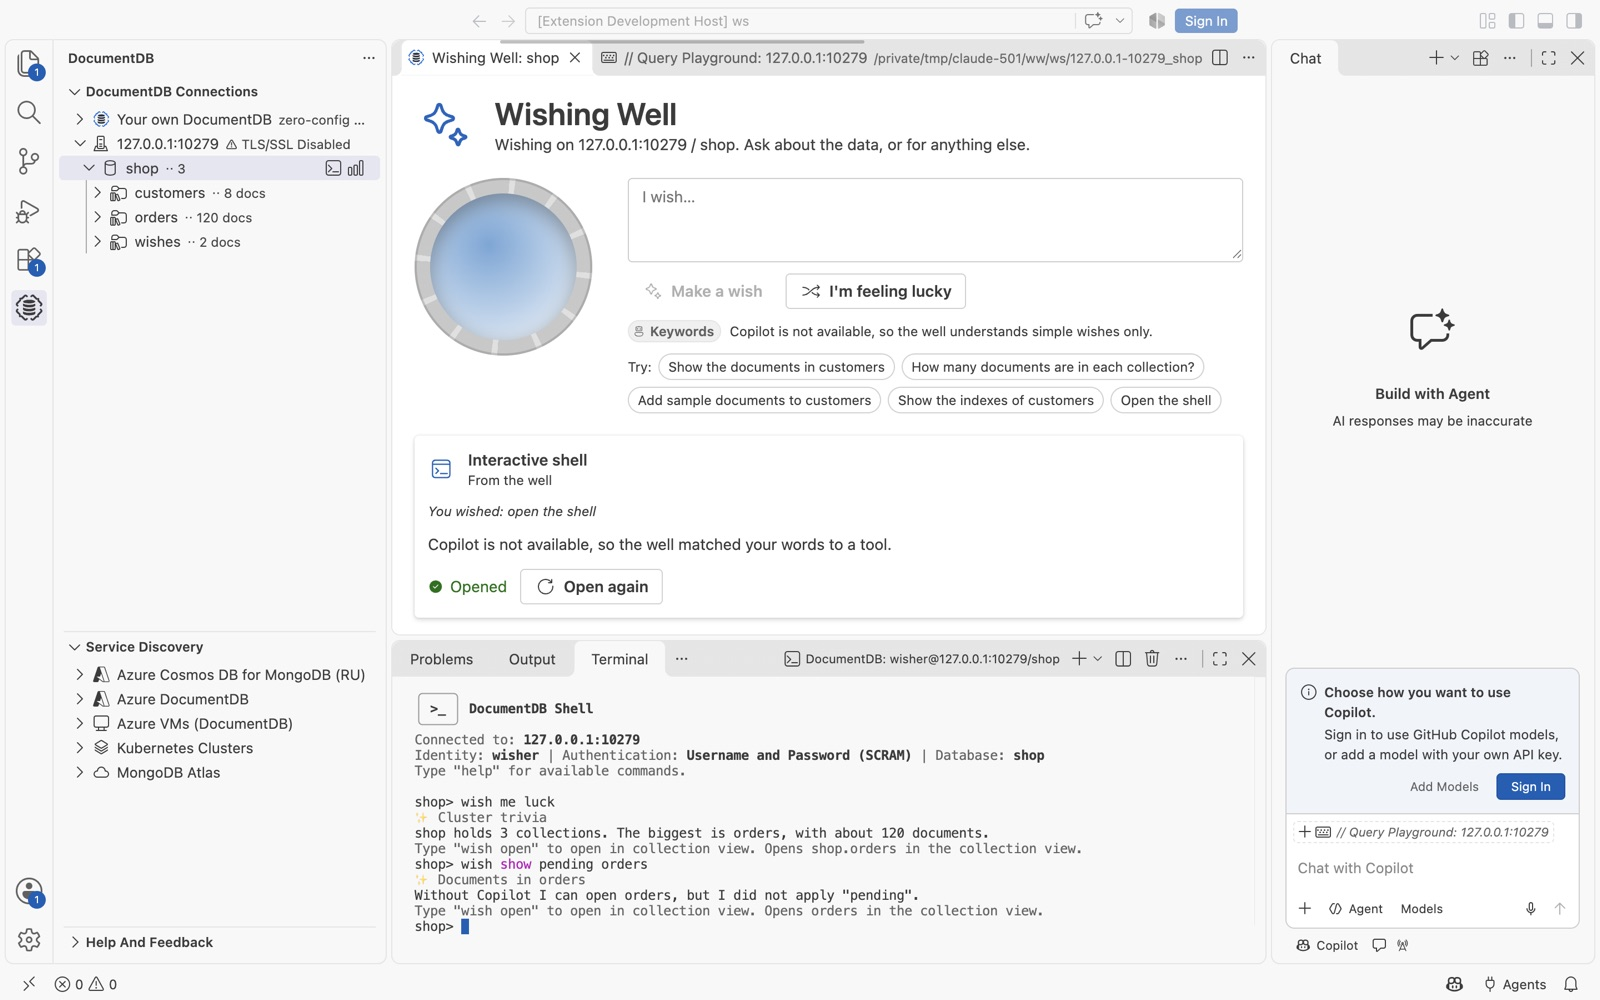
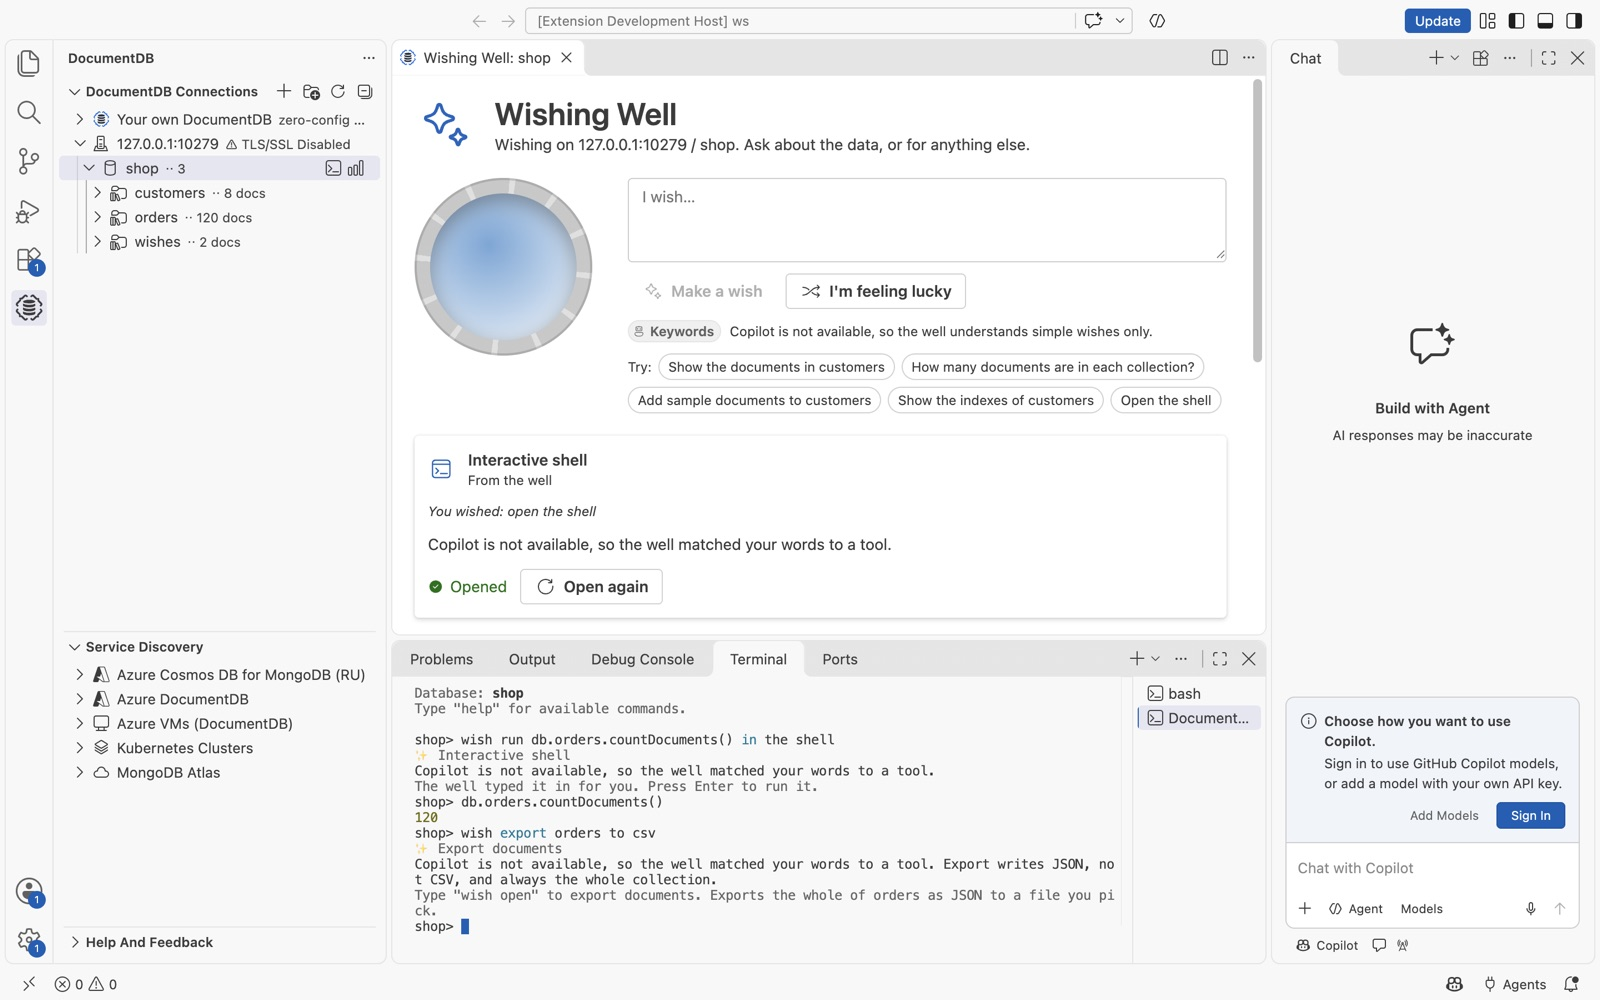
Add the Wishing Well review record and refresh its screenshots

diff --git a/docs/ai-and-plans/README.md b/docs/ai-and-plans/README.md
@@ -22,36 +22,37 @@ treat `status: historical` or `status: superseded` as current.
 
 ## Features
 
-| Feature                                                                   | What it covers                                                                                           | Status                                    |
-| ------------------------------------------------------------------------- | -------------------------------------------------------------------------------------------------------- | ----------------------------------------- |
-| [local-quickstart](./features/local-quickstart/README.md)                 | Run DocumentDB locally in one click: Docker provisioning, readiness, lifecycle                           | shipped 0.10.0                            |
-| [query-insights](./features/query-insights/README.md)                     | Query performance rating, static analysis, and streaming AI recommendations                              | shipped                                   |
-| [interactive-shell](./features/interactive-shell/README.md)               | The in-terminal REPL, its runtime, completions, and highlighting                                         | shipped                                   |
-| [query-playground](./features/query-playground/README.md)                 | `.documentdb` files, persistent worker evaluation, per-document connections                              | shipped                                   |
-| [completions-and-schema](./features/completions-and-schema/README.md)     | Operator registry, schema analyzer, and the shared completion layer                                      | shipped                                   |
-| [index-management](./features/index-management/README.md)                 | The Indexes tab, the create drawer, and the Collection View chrome redesign                              | shipped                                   |
-| [atlas-discovery](./features/atlas-discovery/README.md)                   | MongoDB Atlas discovery: Admin API auth, discovery tree, credentials                                     | shipped                                   |
-| [kubernetes-discovery](./features/kubernetes-discovery/README.md)         | Kubernetes service discovery and connect-time reachability providers                                     | shipped                                   |
-| [webview-ext-package](./features/webview-ext-package/README.md)           | `@microsoft/vscode-ext-webview`: the extracted webview transport package                                 | published preview                         |
-| [webview-fluentui-package](./features/webview-fluentui-package/README.md) | `@microsoft/vscode-ext-webview-fluentui`: Fluent theming and reusable components for webviews            | 1.1.1 prepared                            |
-| [connections-tree](./features/connections-tree/README.md)                 | The Connections view: node item counts, connection load performance                                      | shipped                                   |
-| [no-auth](./features/no-auth/README.md)                                   | Credential-free connections and connection-string TLS handling                                           | shipped                                   |
-| [managed-identities](./features/managed-identities/README.md)             | Explicit managed identity authentication from Azure VMs                                                  | PR #886                                   |
-| [copy-paste-collections](./features/copy-paste-collections/README.md)     | Collection copy/paste tasks, document streaming, conflict handling, and optional index copying           | active                                    |
-| [cluster-dashboard](./features/cluster-dashboard/README.md)               | Cluster-wide inventory and resilience facts                                                              | POC, unmerged                             |
-| [settings](./features/settings/README.md)                                 | Settings editor grouping, setting ID naming, and how a setting is renamed safely                         | active                                    |
-| [welcome](./features/welcome/README.md)                                   | Welcome walkthrough onboarding and quiet next-session deferral for upgraded installations                | active                                    |
-| [escaping](./features/escaping/README.md)                                 | Safe rendering of user/database content and least-privilege Markdown tooltips                            | active                                    |
-| [srv-dns-fallback](./features/srv-dns-fallback/README.md)                 | In-memory SRV fallback for `mongodb+srv://` when c-ares rejects compressed SRV replies (#993)            | implemented (manual checks pending)       |
-| [build-and-test-stack](./features/build-and-test-stack/README.md)         | Vite host and webview builds, Vitest, packaged checks, CI tiers, and modernization history               | active                                    |
-| [e2e-testing](./features/e2e-testing/README.md)                           | The planned installed-workbench and webview end-to-end test iteration                                    | planned                                   |
-| [data-grid](./features/data-grid/README.md)                               | The Collection View table and tree, including the planned SlickGrid replacement                          | planned                                   |
-| [survey](./features/survey/README.md)                                     | Survey refresh: simpler eligibility, broader activity coverage, cohort telemetry, and invitation surface | draft #992; enabled                       |
-| [docs-site](./features/docs-site/README.md)                               | The GitHub Pages documentation site: Just the Docs theme, OS dark mode, local preview                    | draft #420                                |
-| [pre-release-polish](./features/pre-release-polish/README.md)             | Cross-feature visual and documentation refinements prepared for the 1.0 release                          | active                                    |
-| [sovereign-clouds](./features/sovereign-clouds/README.md)                 | Entra sign-in in Azure Government and China: per-cloud token audience, Entra error classifier            | implemented; sovereign checks pending     |
-| [Diagnose connection](./features/connectivity-troubleshooter/README.md)   | Read-only connection diagnosis, a server summary and readable Markdown diagnostics (#100)                | implemented; handover blocked on operator |
-| [deep-links](./features/deep-links/README.md)                             | `vscode://` links: action routing, `/connect`, `/local`, `/connect/azure` for Azure portal links         | active; iteration 3 implemented           |
+| Feature                                                                   | What it covers                                                                                            | Status                                    |
+| ------------------------------------------------------------------------- | --------------------------------------------------------------------------------------------------------- | ----------------------------------------- |
+| [local-quickstart](./features/local-quickstart/README.md)                 | Run DocumentDB locally in one click: Docker provisioning, readiness, lifecycle                            | shipped 0.10.0                            |
+| [query-insights](./features/query-insights/README.md)                     | Query performance rating, static analysis, and streaming AI recommendations                               | shipped                                   |
+| [interactive-shell](./features/interactive-shell/README.md)               | The in-terminal REPL, its runtime, completions, and highlighting                                          | shipped                                   |
+| [query-playground](./features/query-playground/README.md)                 | `.documentdb` files, persistent worker evaluation, per-document connections                               | shipped                                   |
+| [completions-and-schema](./features/completions-and-schema/README.md)     | Operator registry, schema analyzer, and the shared completion layer                                       | shipped                                   |
+| [index-management](./features/index-management/README.md)                 | The Indexes tab, the create drawer, and the Collection View chrome redesign                               | shipped                                   |
+| [atlas-discovery](./features/atlas-discovery/README.md)                   | MongoDB Atlas discovery: Admin API auth, discovery tree, credentials                                      | shipped                                   |
+| [kubernetes-discovery](./features/kubernetes-discovery/README.md)         | Kubernetes service discovery and connect-time reachability providers                                      | shipped                                   |
+| [webview-ext-package](./features/webview-ext-package/README.md)           | `@microsoft/vscode-ext-webview`: the extracted webview transport package                                  | published preview                         |
+| [webview-fluentui-package](./features/webview-fluentui-package/README.md) | `@microsoft/vscode-ext-webview-fluentui`: Fluent theming and reusable components for webviews             | 1.1.1 prepared                            |
+| [connections-tree](./features/connections-tree/README.md)                 | The Connections view: node item counts, connection load performance                                       | shipped                                   |
+| [no-auth](./features/no-auth/README.md)                                   | Credential-free connections and connection-string TLS handling                                            | shipped                                   |
+| [managed-identities](./features/managed-identities/README.md)             | Explicit managed identity authentication from Azure VMs                                                   | PR #886                                   |
+| [copy-paste-collections](./features/copy-paste-collections/README.md)     | Collection copy/paste tasks, document streaming, conflict handling, and optional index copying            | active                                    |
+| [cluster-dashboard](./features/cluster-dashboard/README.md)               | Cluster-wide inventory and resilience facts                                                               | POC, unmerged                             |
+| [settings](./features/settings/README.md)                                 | Settings editor grouping, setting ID naming, and how a setting is renamed safely                          | active                                    |
+| [welcome](./features/welcome/README.md)                                   | Welcome walkthrough onboarding and quiet next-session deferral for upgraded installations                 | active                                    |
+| [escaping](./features/escaping/README.md)                                 | Safe rendering of user/database content and least-privilege Markdown tooltips                             | active                                    |
+| [srv-dns-fallback](./features/srv-dns-fallback/README.md)                 | In-memory SRV fallback for `mongodb+srv://` when c-ares rejects compressed SRV replies (#993)             | implemented (manual checks pending)       |
+| [build-and-test-stack](./features/build-and-test-stack/README.md)         | Vite host and webview builds, Vitest, packaged checks, CI tiers, and modernization history                | active                                    |
+| [e2e-testing](./features/e2e-testing/README.md)                           | The planned installed-workbench and webview end-to-end test iteration                                     | planned                                   |
+| [data-grid](./features/data-grid/README.md)                               | The Collection View table and tree, including the planned SlickGrid replacement                           | planned                                   |
+| [survey](./features/survey/README.md)                                     | Survey refresh: simpler eligibility, broader activity coverage, cohort telemetry, and invitation surface  | draft #992; enabled                       |
+| [docs-site](./features/docs-site/README.md)                               | The GitHub Pages documentation site: Just the Docs theme, OS dark mode, local preview                     | draft #420                                |
+| [wishing-well](./features/wishing-well/README.md)                         | A proof of concept: one free-text box that reaches the extension's own tools, also open to outside agents | POC, PR #1122                             |
+| [pre-release-polish](./features/pre-release-polish/README.md)             | Cross-feature visual and documentation refinements prepared for the 1.0 release                           | active                                    |
+| [sovereign-clouds](./features/sovereign-clouds/README.md)                 | Entra sign-in in Azure Government and China: per-cloud token audience, Entra error classifier             | implemented; sovereign checks pending     |
+| [Diagnose connection](./features/connectivity-troubleshooter/README.md)   | Read-only connection diagnosis, a server summary and readable Markdown diagnostics (#100)                 | implemented; handover blocked on operator |
+| [deep-links](./features/deep-links/README.md)                             | `vscode://` links: action routing, `/connect`, `/local`, `/connect/azure` for Azure portal links          | active; iteration 3 implemented           |
 
 Everything else is a single file at this root, such as:
 

diff --git a/docs/ai-and-plans/features/wishing-well/iterations/01-review.md b/docs/ai-and-plans/features/wishing-well/iterations/01-review.md
@@ -1,0 +1,56 @@
+---
+feature: wishing-well
+kind: review
+status: active
+prs: [1122]
+created: 2026-11-24
+---
+
+# AI review rounds and what was decided
+
+The Wishing Well is a proof of concept, so this records what the reviews found and what the
+operator chose, not a hardening plan. Three rounds ran on 2026-11-23 and 2026-11-24. Severities are
+the reviewers' where they gave one, otherwise the session lead's.
+
+| Round              | Reviewers                                                                                                      | Looked at                                     |
+| ------------------ | -------------------------------------------------------------------------------------------------------------- | --------------------------------------------- |
+| 1. Product review  | Gemini 4 Neon (xhigh), GPT-6.2 Astra (max)                                                                     | UI/UX and agent experience of the first build |
+| 2. User journeys   | The same two, given live evidence                                                                              | What users will try; no AI; small models      |
+| 3. Break the fixes | Three Claude Opus reviewers, one lens each (query text, honesty, keyword mode), then one more on the follow-up | The round 2 fixes                             |
+
+Live evidence behind round 2: 50 wishes with no Copilot; the well's real prompt sent one-shot to a
+small model (Claude Haiku) for 32 wishes at two scopes; Claude Haiku, Claude Sonnet and Copilot CLI
+on GPT-6 Luna doing seven tasks over MCP. The real `copilot-utility` reader and the in-editor
+Copilot tools were never run: the test profile had no Copilot sign-in.
+
+## Findings and outcomes
+
+| Finding                                                                              | Severity | Evidence                                                      | Decision and outcome                                                                                                            |
+| ------------------------------------------------------------------------------------ | -------- | ------------------------------------------------------------- | ------------------------------------------------------------------------------------------------------------------------------- |
+| Keyword mode guessed a `deleteMany` for "remove the tag from all orders"             | P0       | Round 1, reproduced                                           | Operator: fix. Without Copilot the well only launches tools and never drafts a write.                                           |
+| A shell wish opened tabs and stole focus from the terminal                           | P1       | Round 1                                                       | Operator: fix. A shell wish prints its card; `wish open` opens it.                                                              |
+| An agent's wish could raise a sign-in prompt the agent cannot see                    | P1       | Round 1                                                       | Operator: fix. Agents get "needs sign-in"; links, Copilot hand-offs and non-DocumentDB commands ask the user first.             |
+| Date and id filters in find and the collection view returned nothing or were refused | P0       | Round 2: `{"$date":…}` gave 0 rows shown as an answer         | Operator: fix. Filters are converted to the shell syntax the query parser reads.                                                |
+| A read's card hid the query and dropped the reader's own caveat                      | P0       | Round 2: "does not filter by gold yet" never reached the user | Operator: fix. Read cards show the query that ran and the reader's note, on every surface.                                      |
+| Granting export, import or create blocked until the user finished                    | P0       | Round 2: agents timed out after 60 s; cancel read as granted  | Operator: fix. These grants return at once as "opened, not done".                                                               |
+| The prompt promised CSV export                                                       | P1       | Round 2: export writes JSON and always the whole collection   | Operator: fix. Prompt, hints and messages say so.                                                                               |
+| Plain answers described themselves                                                   | P1       | Round 2: 3 of 6 in the simulation                             | Operator: fix. One prompt line; 0 of 11 after.                                                                                  |
+| One-shot reader guessed field names                                                  | P1       | Round 2: 8 of 29 reads wrong, none flagged                    | Operator: fix. Field hints for the collections a wish names, and for every collection of a small database; 0 of 27 wrong after. |
+| Keyword mode knew only a fixed list of nouns                                         | P1       | Round 2: "show me the wishes" refused on the demo database    | Operator: fix. Real collection names, plus routes for create, health check and help.                                            |
+| 29 defects in the round 2 fixes, 2 of them P0                                        | P0 to P2 | Round 3                                                       | Fixed in the same pass, each with a test.                                                                                       |
+
+## Left open on purpose
+
+On 2026-11-24 the operator steered the work away from implementation polish and towards the idea
+and its prototype. These are for the team to discuss, not decided:
+
+- Should "Make a Wish" sit in the side-bar menus by default, or behind a setting?
+- Should the well keep generic VS Code commands (theme, zoom, Zen Mode)? Both reviewers would cut them.
+- Should outside agents see clusters found through discovery, not only saved connections?
+- Should agents get read-only explain and index spells, so "why is this slow" can be answered instead of opened?
+- Without Copilot the well answers no data question. Is a launcher enough, or should it run a plain count?
+
+## Not done
+
+- GitHub Copilot's reviewer comments are not merged here: that review starts when the PR leaves draft.
+- No run against the real `copilot-utility` model, a large database, or a slow remote cluster.

diff --git a/docs/ai-and-plans/features/wishing-well/README.md b/docs/ai-and-plans/features/wishing-well/README.md
@@ -1,7 +1,8 @@
 ---
 feature: wishing-well
 kind: overview
-status: planned
+status: active
+prs: [1122]
 created: 2026-11-23
 code:
   - src/services/wishingWell/**
@@ -30,7 +31,9 @@ turns on.
 Rules the code keeps:
 
 - Wishes never write data. Changes come back as a playground script the user runs.
-- Read-only queries run when the wish is made; everything else waits for a grant.
+- Read-only queries run when the wish is made and show the query that ran; the rest waits for a grant.
+- Wizards and commands are opened, not completed: the well is not told how they end. Export writes
+  the whole collection, as JSON only.
 - Only allowlisted VS Code commands run. Anything else goes to Copilot agent mode.
 - A shell wish prints its card; nothing opens until the user types `wish open`.
 - Outside agents get answered, proposed or refused replies; they never trigger a sign-in prompt,
@@ -39,4 +42,5 @@ Rules the code keeps:
   token and rejects browser origins.
 - Telemetry records the kind of action, never the wish text.
 
-Screenshots of the demo are in [images/](images/).
+Screenshots of the demo are in [images/](images/). The review rounds, what was decided and the
+questions left for the team are in [iterations/01-review.md](iterations/01-review.md).
